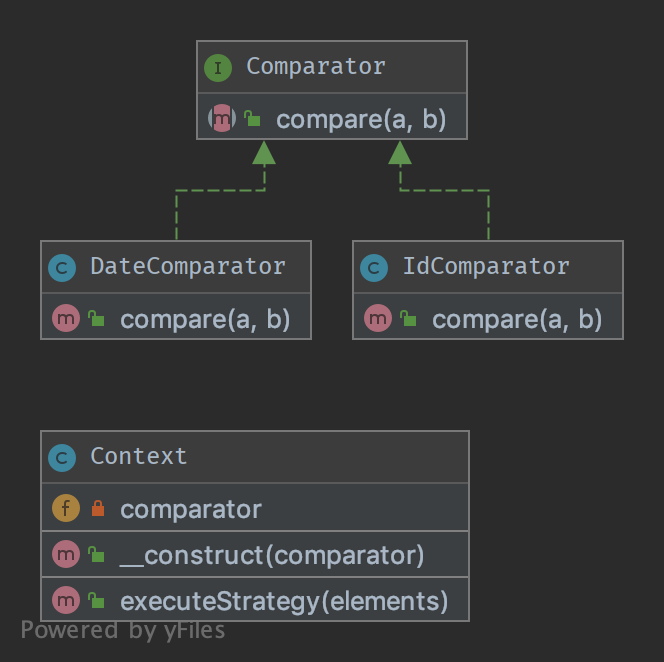
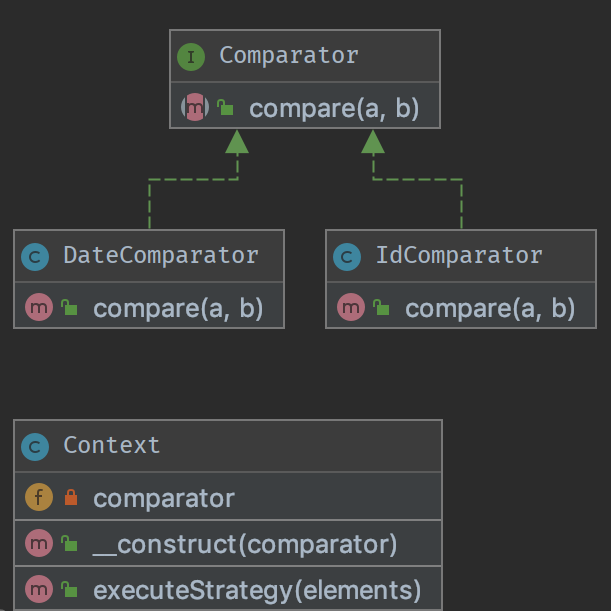
strategy design pattern fully describe

Changed region(s): [[0.0, 0.0311, 0.9951, 0.5597], [0.0, 0.6219, 0.7463, 1.0]]

diff --git a/README.md b/README.md
@@ -1,22 +1,5 @@
 ## Design Pattern in PHP & Laravel
 
-### Strategy ([Details](./SingleResponsibilityPrinciple.php))
+### Strategy ([Details](./Strategy Design Pattern/Strategy Pattern Details.md))
 >Strategy is a behavioral design pattern that lets you define a family of algorithms,
->put each of them into a separate class, and make their objects interchangeable. This pattern is used when you might have multiple way to solve a problem, and you want to let the client choose which one to use.
-**Purpose** <br>
-To separate strategies and to enable fast switching between them. Also this pattern is a good alternative to inheritance (instead of having an abstract class that is extended).
-
-
-##Example:
->login with email or mobile 
-
-> simplify unit testing switching between files and memory storage
-
-> If you use Laravel then you are probably used to the config options, such as in
-    **config/logging.php ** you have this line:
-
-    **'default' => env('LOG_CHANNEL', 'stack')**
-
-    You can set it to various options such as 'stack', 'stderr', 'single' - each of these will
-    load a different logging class - this uses the strategy pattern.
- 
+put each of them into a separate class, and make their objects interchangeable. This pattern is used when you might have multiple way to solve a problem, and you want to let the client choose which one to use.

diff --git a/Strategy Design Pattern/Strategy Pattern Details.md b/Strategy Design Pattern/Strategy Pattern Details.md
@@ -13,11 +13,16 @@ login with email or mobile number <br>
 simplify unit testing switching between files and memory storage <br>
 
 ### Diagram Example
-img 
+
+<img width="100%" src="./uml10.png"  width="450px" height="350px"/>
+
 ### Laravel Usage:
 If you use Laravel then you are probably used to the config options, such as in
-**config/logging.php ** you have this line:
-**'default' => env('LOG_CHANNEL', 'stack')**
+**config/logging.php ** 
+you have this line: </br>
+
+**'default' => env('LOG_CHANNEL', 'stack')**. <br>
+
 You can set it to various options such as 'stack', 'stderr', 'single' - each of these will
 load a different logging class - this uses the strategy pattern.
  
